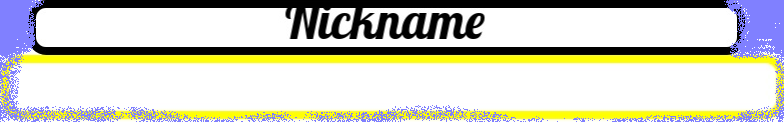
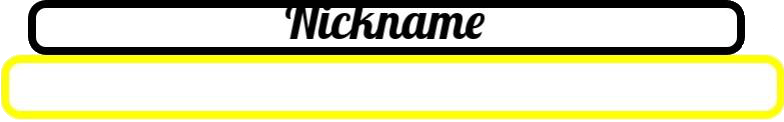
update png-s in inception/data

Changed region(s): [[0.0, 0.0, 1.0, 1.0]]

diff --git a/inception/global_variables.hpp b/inception/global_variables.hpp
@@ -17,14 +17,14 @@
 #define path_to_mem2 "../inception/data/image/mem2.jpg"
 #define path_to_dante "../inception/data/image/dante.jpg"
 #define path_to_new_background "../inception/data/image/new_background.jpeg"
-#define pers_settings_ava "../inception/data/image/pers_settings_ava.png"
+#define pers_settings_ava "../inception/data/image/pers_settings_ava1.png"
 #define pers_settings_name "../inception/data/image/pers_settings_name.png"
 #define pers_settings_password "../inception/data/image/pers_settings_password.png"
 #define pers_settings_nickname "../inception/data/image/pers_settings_nickname.png"
-#define pers_settings_info "../inception/data/image/pers_settings_info.png"
+#define pers_settings_info "../inception/data/image/pers_settings_info1.png"
 #define pers_settings_melody "../inception/data/image/pers_settings_melody.png"
-#define pers_settings_joke1 "../inception/data/image/pers_settings_joke1.png"
-#define pers_settings_joke2 "../inception/data/image/pers_settings_joke2.png"
+#define pers_settings_joke1 "../inception/data/image/pers_settings_joke1_1.png"
+#define pers_settings_joke2 "../inception/data/image/pers_settings_joke2_1.png"
 
 //эти глобальные переменные необходимы для проигрывания саунда
 //issue: add melody in global_variables
